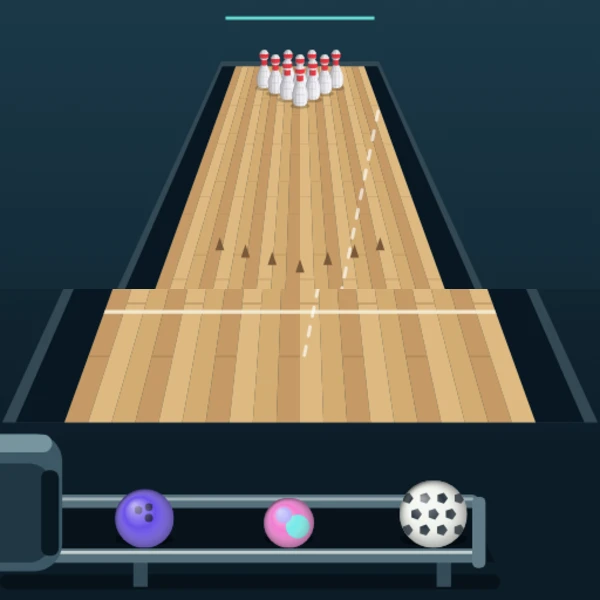
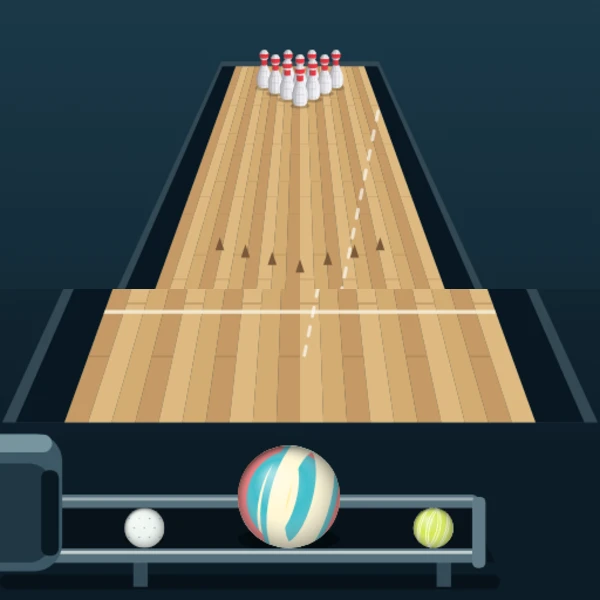
スコア欄の背景帯と現在位置の強調と青線を削除

diff --git a/games/_random-bowling/index.html b/games/_random-bowling/index.html
@@ -352,7 +352,7 @@
   }
   function draw() {
     ctx.fillStyle='#101f29';ctx.fillRect(0,0,W,H);
-    var bg=ctx.createLinearGradient(0,120,0,H);bg.addColorStop(0,'#1d3d4d');bg.addColorStop(1,'#091620');ctx.fillStyle=bg;ctx.fillRect(0,80,W,H-80);
+    var bg=ctx.createLinearGradient(0,120,0,H);bg.addColorStop(0,'#1d3d4d');bg.addColorStop(1,'#091620');ctx.fillStyle=bg;ctx.fillRect(0,0,W,H);
     floor(-3.35,0,3.35,25,'#334853');
     floor(-3.2,0,-2.65,24,'#081721');floor(2.65,0,3.2,24,'#081721');
     for(var i=0;i<20;i++) {
@@ -365,7 +365,6 @@
       var a=project(i*.55,0,6.5+Math.abs(i)*.32);
       poly([{x:a.x,y:a.y-7},{x:a.x-4,y:a.y+5},{x:a.x+4,y:a.y+5}],'#785839');
     }
-    var light=project(0,0,24);ctx.fillStyle='#66d8d0';ctx.fillRect(203,light.y-45,134,3);
     if(phase==='aim'&&state===S.PLAY) {
       ctx.beginPath();
       for(var z=1;z<=18;z+=.4) {var p=project(aim*(z-.65),.025,z);if(z===1)ctx.moveTo(p.x,p.y);else ctx.lineTo(p.x,p.y);}
@@ -378,8 +377,8 @@
       else {var b=o.b,q=project(b.x,b.y,b.z),sh=project(b.x,0,b.z);ctx.save();ctx.translate(sh.x,sh.y);ctx.scale(1,.3);disk(0,0,sh.k*kind.r,'rgba(0,0,0,.27)');ctx.restore();ballDraw(q.x,q.y,q.k*kind.r,kind,b.spin);}
     });
     for(var i=0;i<10;i++) {
-      var x=24+i*49;ctx.fillStyle=i===shot?'#76ddd0':'#2c414c';roundRect(x,11,43,43,10);ctx.fill();
-      ctx.textAlign='center';ctx.fillStyle=i===shot?'#132a31':'#c2d2d7';ctx.font='600 18px sans-serif';ctx.fillText(history[i]==null?'·':String(history[i]),x+21.5,39);
+      var x=24+i*49;ctx.fillStyle='#2c414c';roundRect(x,11,43,43,10);ctx.fill();
+      ctx.textAlign='center';ctx.fillStyle='#c2d2d7';ctx.font='600 18px sans-serif';ctx.fillText(history[i]==null?'·':String(history[i]),x+21.5,39);
     }
     drawReturn();
     if(state===S.RESULT) drawResult();
